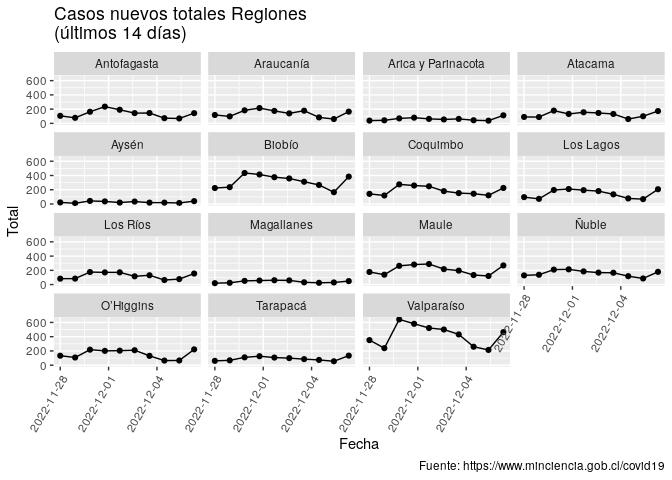
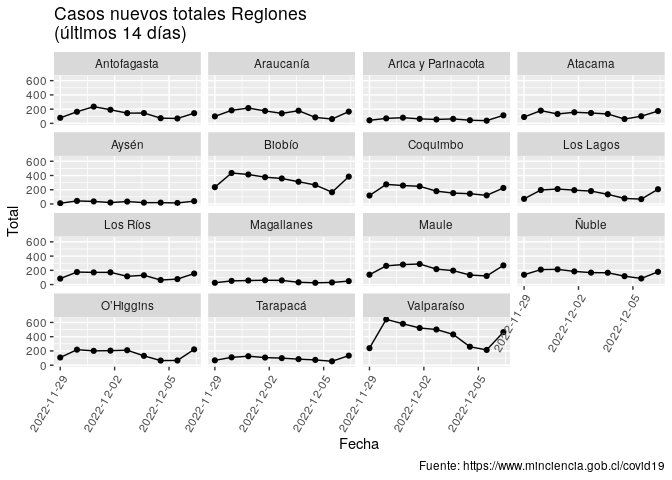
Re-build Rmarkdown files

diff --git a/README.md b/README.md
@@ -3,7 +3,7 @@
 
 Ejemplo de uso de total\_casos de COVID recopilados por el Ministerio de
 Ciencia de Chile <https://www.minciencia.gob.cl/covid19>. Última
-actualización: 2022-12-11
+actualización: 2022-12-12
 
 ## Visualización desde el comienzo de la pandemia
 
